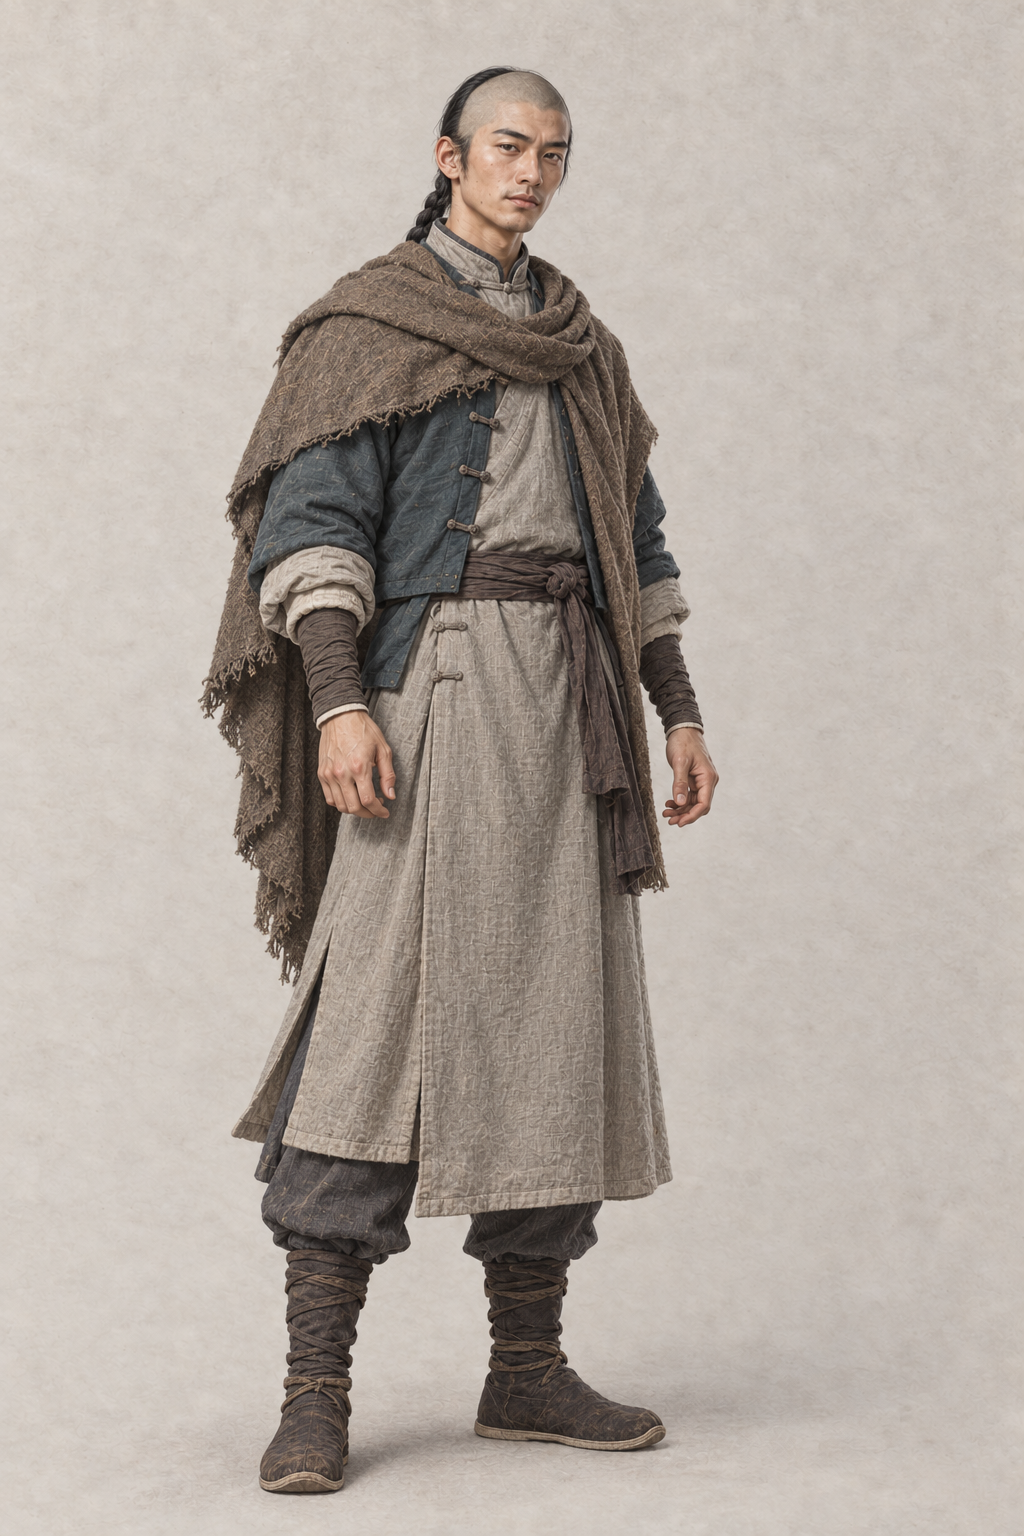
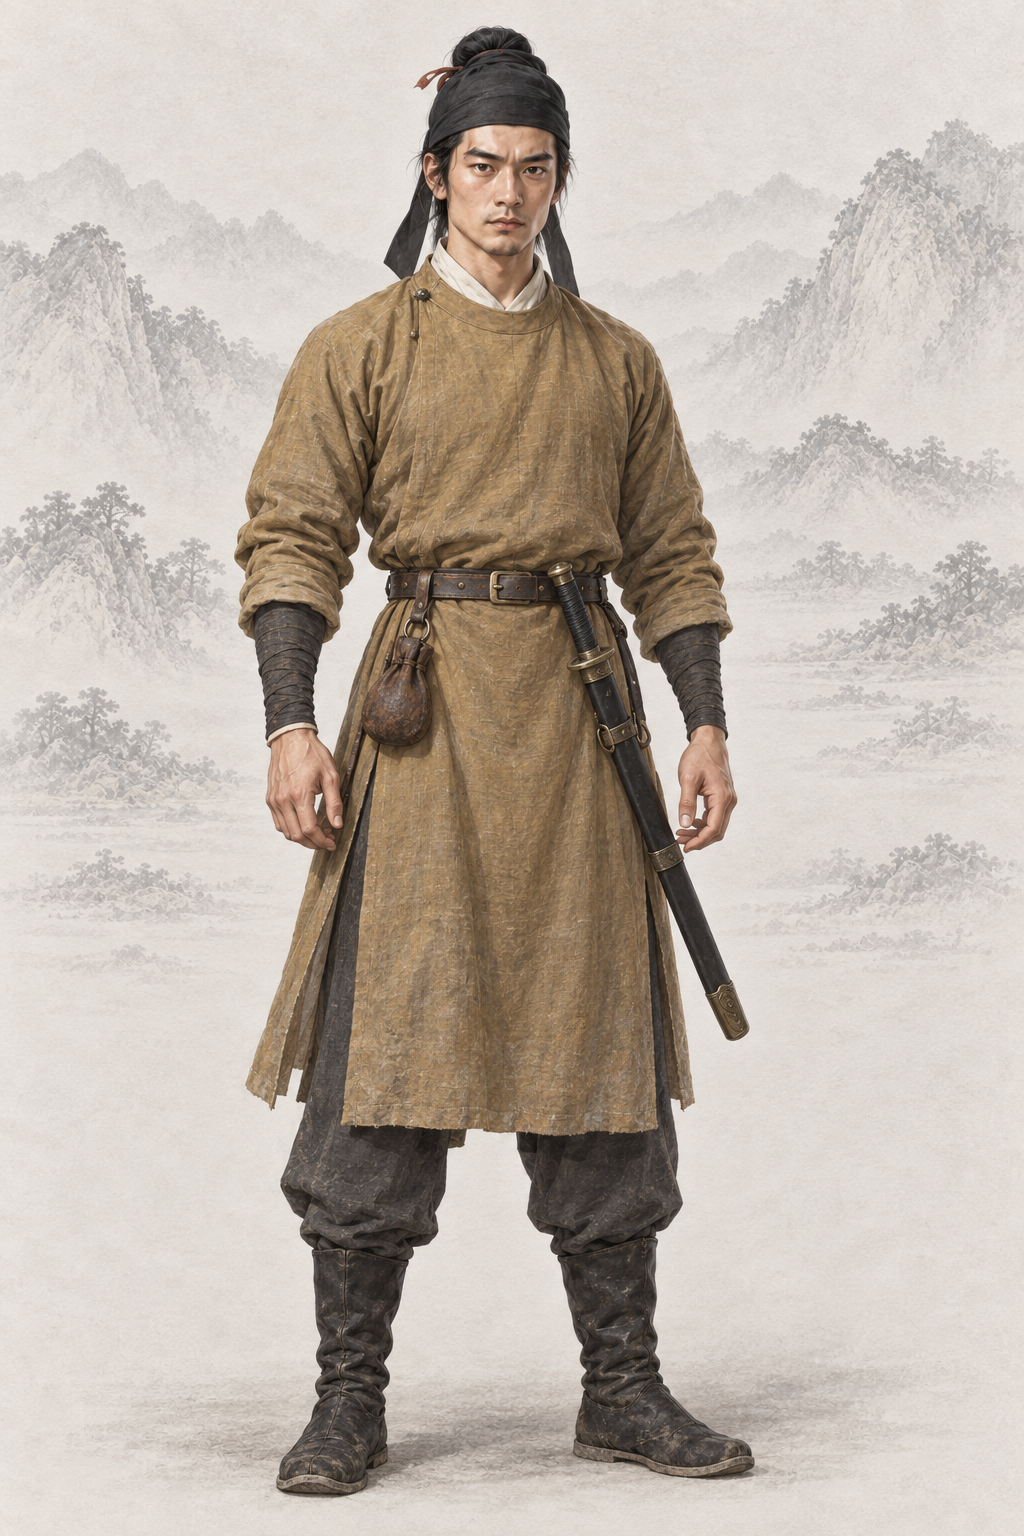
assets(character): por_npc_zhujue__ch10_m_base 主角（男）· 唐·西州以北（白马，AR-26 唐代化）（codex）
主角时代图：上传本轮新出的 ch00 锚点作唯一身份参考；沿用审核组提示词（唐代装束按 design/10 §8.9 改写），补去 AI 味一句

diff --git a/assets/default/prompts/characters/protagonist/npc_zhujue__m_ch10.md b/assets/default/prompts/characters/protagonist/npc_zhujue__m_ch10.md
@@ -1,7 +1,7 @@
 ---
 asset_id: por_npc_zhujue__ch10_m_base
 subject_id: npc_zhujue
-name: 主角（男）· 本作清初·回疆
+name: 主角（男）· 唐·西州以北（白马，AR-26 唐代化）
 book: ch10_baima
 gender: male
 age_variant: prime
@@ -13,10 +13,33 @@ references:
   use: 本人跨书身份参考，保持同脸、同体型、同成年年龄；时代衣装道具按本角色说明。当前状态candidate，按作者本轮先出齐指示授权用于生产，不代表批准。SHA-256 dcd963dda3a6b776e9fb810946cd0522ad87820d9ef1d6ddda6069eb2c01547f
 - path: assets/default/baseline/character/male/ref_npc_linghuchong__ch05_base01.png
   use: 仅取画法、纸底、柔光、笔触和设色，不继承参考角色面容、年龄体型、发式、衣装或道具。实际manifest状态candidate；作者本轮明确指定男女现有基线用于生产，审批状态保留不变。SHA-256 3523d4d935ad8bb13db359ce72e73bc211ebdb3af5cb2a9806db346dca6df202
-status: ready
+status: redo
+codex_prompt_rev: 2026-10-02
+redo_reason: "AR-31：作者点名的重要人物，按经典造型以文字改写后重出（10-02）"
 ---
 
 # 主角（男）· 白马啸西风 · 本作清初·回疆
+
+## Gemini 提示词
+
+> 2026-10-02 AR-31 改写（1 号出图员，codex exec · image_gen 出图）：重要人物借鉴经典影视造型，只写成文字——不写演员名、不上传剧照、原创面孔；主角和美人画得好看，去 AI 味，禁止幼态。出图时上传两张同性别基线立绘作画风参考（放在最后）；第 1 张为身份参考（por_npc_zhujue__ch00_m_base.png）。审核组原稿保留在下一节作历史。
+
+```text
+生成一张 2:3 竖幅全身人物立绘：单人、单一视角、完整全身——头顶、双手、双脚和手中器物的两端都在画面内，四周留出自然空白；人物站姿自然，身体基本朝向正面，头部端正（不歪头、不仰不俯），镜头平视。
+【画风】写实手绘古风人物插画，与本项目写实武侠角色立绘同一画风：人物是完整、坚实、比例真实的写实绘画；皮肤有真实质感——细小毛孔、细纹、晒痕、轻微色斑和自然的左右不对称，不磨皮、不油亮；头发有一根根的发丝和自然碎发；布料看得出经纬纹理、厚薄和自然垂坠的褶皱，带穿用过的轻微旧化，但完整不破烂；整体设色低饱和、沉稳；柔和的自然光从左上方照来，明暗过渡自然，不打舞台光、轮廓光或美颜柔光。这是手绘写实绘画，不是照片，不是三维渲染，也不是动漫或游戏 CG。
+【背景】不透明的暖浅灰色纸底，只在远处有极淡的水墨远山和薄雾，大面积留白；人物与背景明暗分明、轮廓边缘干净完整（后续要自动抠图），水墨和纸纹只在背景里，不侵入人物和衣服；脚下只有很淡的一点接触阴影。
+【人物】主角（男）：本作原创的穿越者，此刻身处《白马啸西风》按本作改设在唐代西域（武周长安二年，约公元 702 年，项目原创定年）：西州以北、天山北麓的驿路上，随驿车和粟特商队西行的汉人行旅。本图是他在这一时代的基础立绘，不代表特定门派或结局。
+【身份参考】随提示词上传的第 1 张图是主角本人（序章 ch00 新版定稿）：保持同一个人——脸型、左眉断疤与小痣、眼睛、鼻子、嘴、肤色、体型和年龄都不变；只把服饰、发式和道具换成下文的本时代版本。不要照搬图中的衣服、姿势和背景。
+【本人面容（十五个时代统一，不能变）】约二十八岁的现代中国男青年，原创面孔，不像任何演员或书中其他人物。偏长的方圆脸，颧骨适中，下颌转折清楚但不宽；平直的浓眉，左眉眉峰处有一道约一厘米长的浅白色旧疤，把左眉截成两段（全书标志，必须清楚可见）；左眉尾下方一颗浅褐色小痣；深棕色中等大小的杏眼、内双，眼神专注、带一点好奇；鼻梁直、鼻头圆钝；上唇薄、下唇略厚，嘴角平和；暖中性略带日晒的肤色，唇上与下巴有极淡的胡茬，眼角有一两道细纹。中等偏高的个子，肩背匀称，四肢结实而不魁梧（约 7.5 头身）；乌黑的头发直而略硬。整体是踏实可靠、警觉而不凶的普通青年，不是偶像或模特。
+【主角标志】发髻根部（清代则是辫梢）系一根褪色的朱红细绳，露出短短的绳头——每个时代都保留这根红绳。
+【服饰】唐代汉人男子的行旅装束：头戴黑色软脚幞头，幞头下束发成髻，髻根系朱红细绳、绳头从幞头后露出一点；土黄色圆领窄袖缺胯袍（圆领在右肩扣合，袍长过膝、两侧开衩），白色内领，腰束黑色革带、带上挂一只小皮囊，深色长裤，黑色长靿皮靴；衣料旧而完整，带一点风沙。
+【道具】左腰用两根挂带挂一柄唐代横刀（直身单刃、小护手，完整收在黑色直鞘里），刀不出鞘。
+【姿态与神情】身体正面站稳，双手空着、自然垂在身侧；神情警觉而沉着，像刚在风沙里抬头辨认驿路。整体要好看、有魅力：五官端正耐看、气质干净可靠（但不是偶像或模特脸）。
+【不要】画面里不要任何文字、题款、印章、签名、水印、边框、分格或多视图；不要第二个人；不要幼态（童颜、娃娃脸、婴儿肥、儿童或少年身材、大头小身）；不要塑料感皮肤、磨皮美颜、网红脸（尖下巴大眼高鼻的模板脸）、过度对称、浓妆、偶像式打光、蜡像感；不要照片质感、三维渲染或动漫大眼；不要歪头、斜镜头；不要多指、缺指（设定的伤残除外）、手与器物粘连或悬空；汉式交领必须右衽（穿着者的左襟压在右襟上），不要左衽（设定为少数民族服制的除外），不要水平镜像；不要现代物品、发光特效、法阵或能量光。不要明星脸或模特式五官；不要与书中男女主角撞脸；不要年龄变小或变老。不要清代剃发留辫、瓜皮帽、马褂；不要宋明服饰、网巾；不要日本刀（横刀是直身唐刀）；不要清真寺穹顶等后世建筑。
+【画风基线】随提示词上传的参考图里，最后两张是本项目的立绘画风基线：只参考它们的画风、用色、光线、质感和暖浅灰纸底加淡水墨的背景处理，整体画风必须与它们一致——精细写实的数字手绘插画，不是油画，不要厚涂笔触和画布纹理。参考图只取画风、光线、质感和背景处理，不取长相：不要照搬基线图里人物的长相、年龄、发型、服饰和姿势。
+```
+
+---
 
 ## 人物要点
 
